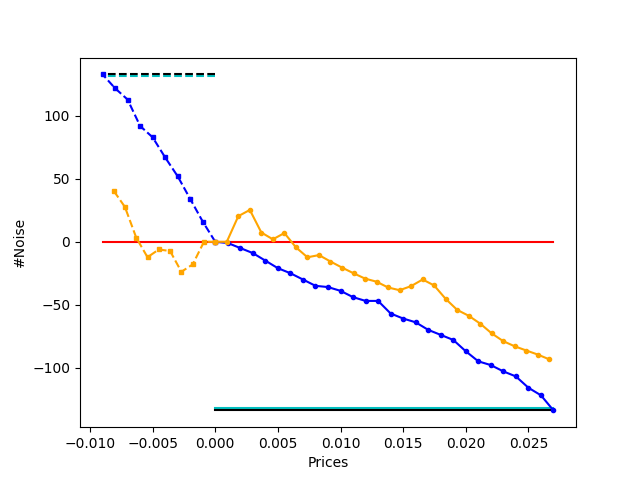
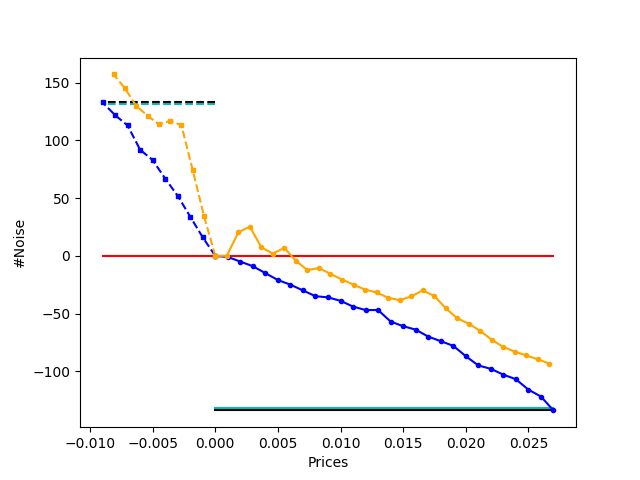
ddd

diff --git a/core.py b/core.py
@@ -951,9 +951,9 @@ class Play(object):
         outputs = []
         input_dim = self._batch_input_shape[-1].value
         samples = inputs.shape[-1] // input_dim
-
+        LOG.debug("#Samples: {}".format(samples))
         for j in range(samples):
-            self.reset_states(states)
+            # self.reset_states(states)
             x = inputs[j*input_dim:(j+1)*input_dim].reshape(1, 1, -1)
             output = self.model.predict(x, steps=steps_per_epoch, verbose=verbose).reshape(-1)
             outputs.append(output)
@@ -2097,15 +2097,14 @@ class MyModel(object):
               abs(prices[i+1] - end_price) > 1e-7:
                 LOG.error("Bugs: prices is out of expectation")
 
-            fake_start_price, fake_end_price = fake_price_list[0], fake_price_list[-1]
-            fake_interpolated_prices = np.linspace(fake_start_price, fake_end_price, batch_size)
-            # self.reset_states_parallel(states_list=states_list)
-            fake_interpolated_noises = self.predict_parallel(fake_interpolated_prices, states_list=states_list)
-
             interpolated_prices = np.linspace(start_price, end_price, batch_size)
             # self.reset_states_parallel(states_list=states_list)
             interpolated_noises = self.predict_parallel(interpolated_prices, states_list=states_list)
 
+            fake_start_price, fake_end_price = fake_price_list[0], fake_price_list[-1]
+            fake_interpolated_prices = np.linspace(fake_start_price, fake_end_price, batch_size)
+            # self.reset_states_parallel(states_list=states_list)
+            fake_interpolated_noises = self.predict_parallel(fake_interpolated_prices, states_list=states_list)
 
             states_list = [o[i-1] for o in operator_outputs]
 
